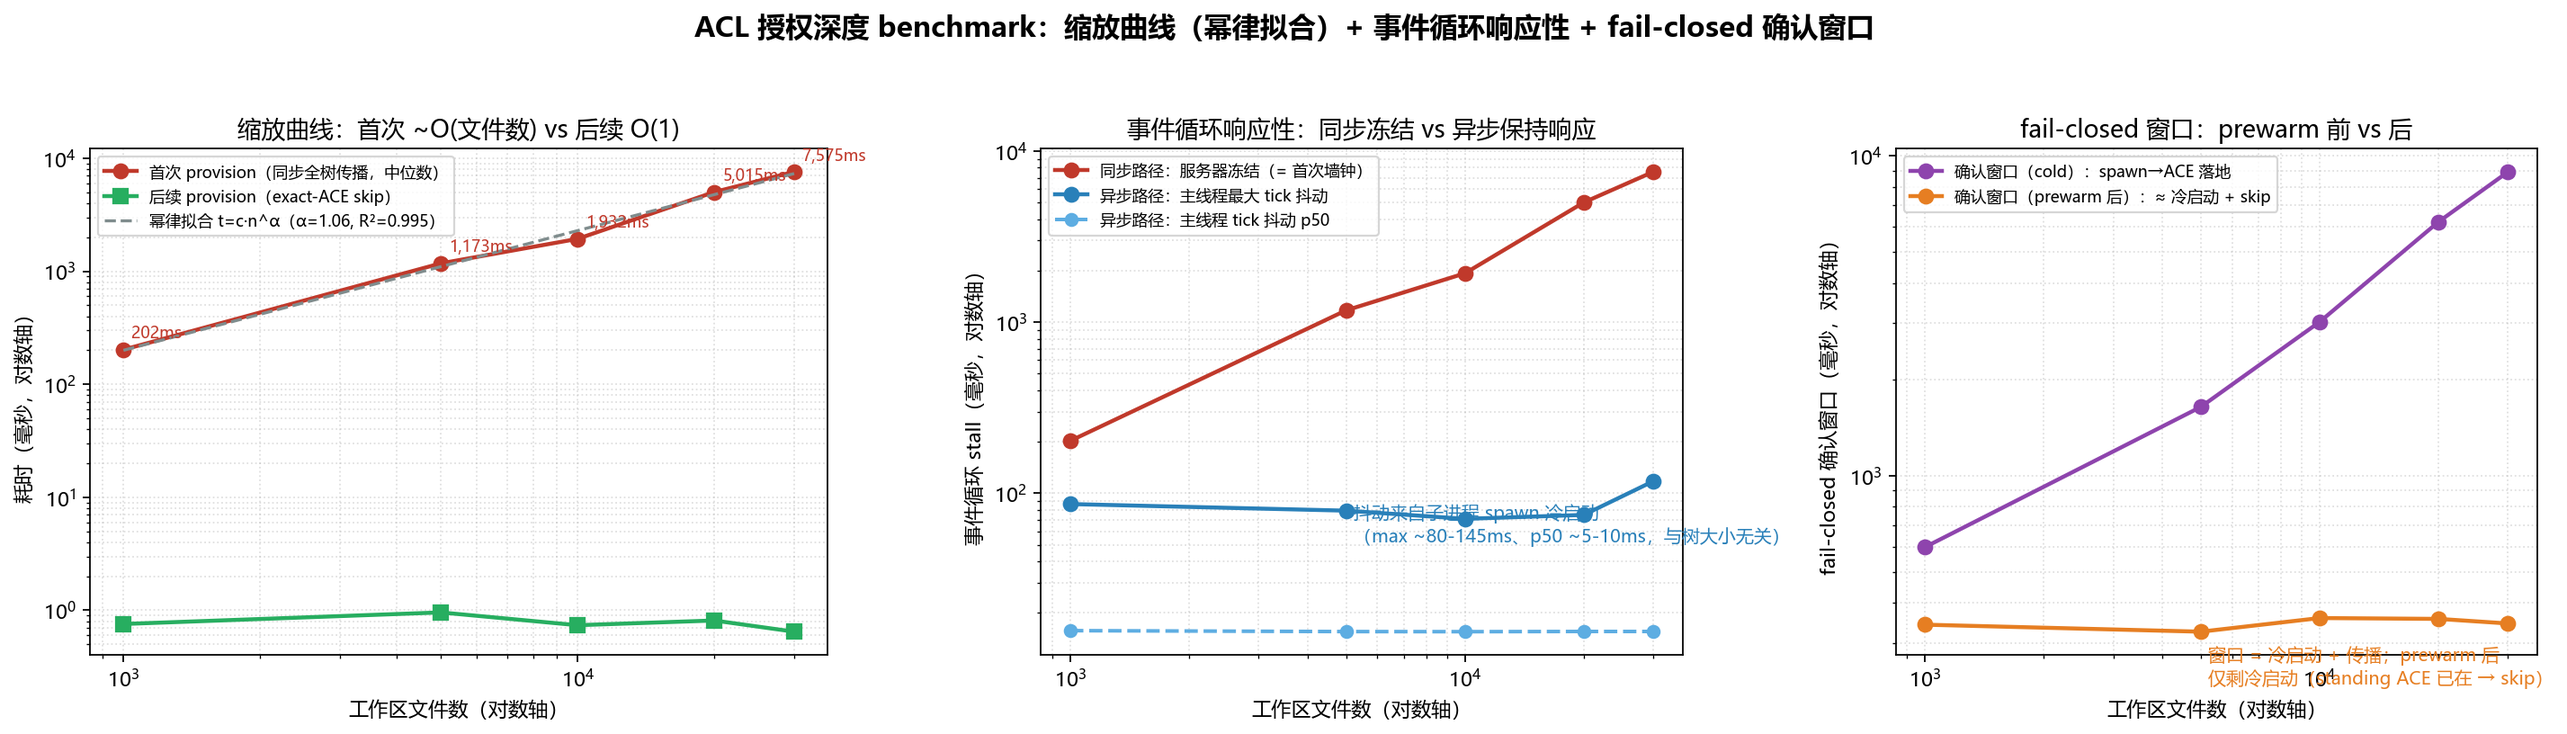
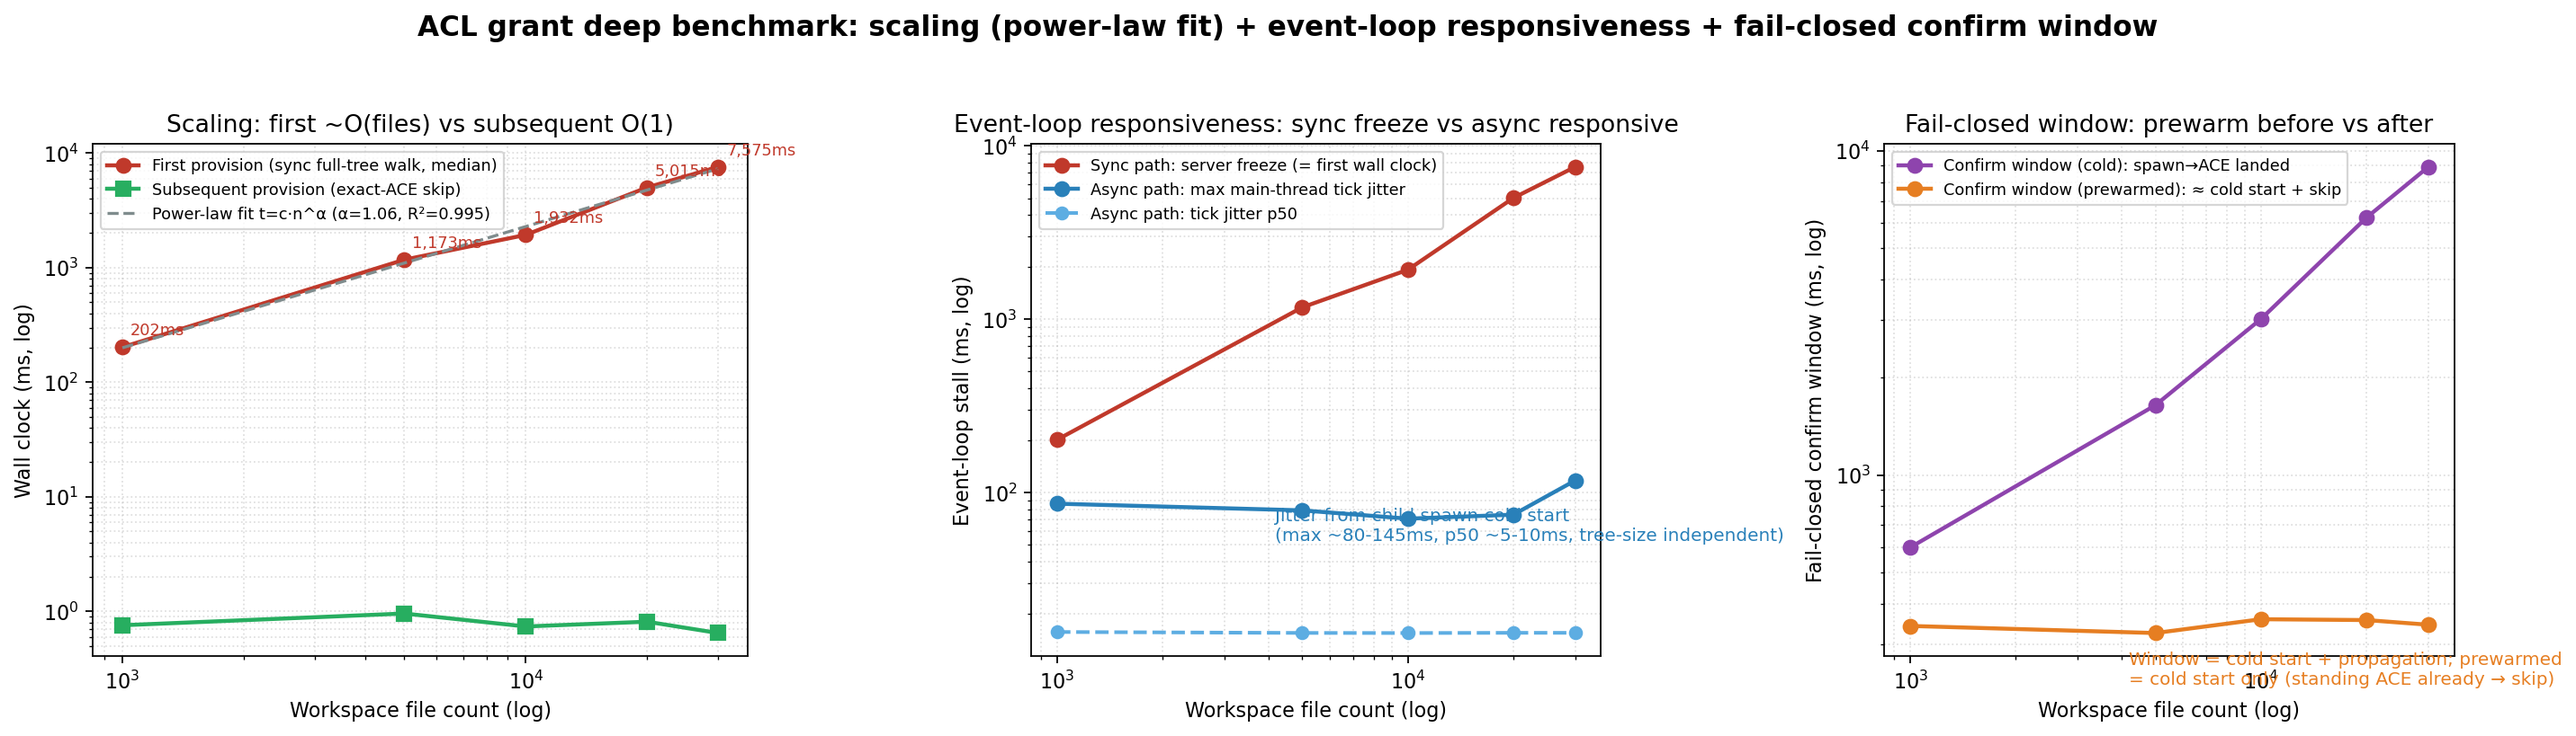
docs(benchmark): localize figures to English for public release

diff --git a/scripts/plot-benchmark-deep.py b/scripts/plot-benchmark-deep.py
@@ -25,15 +25,9 @@ import matplotlib
 
 matplotlib.use("Agg")
 import matplotlib.pyplot as plt
-import matplotlib.font_manager as fm
 
-ZH_FONT = None
-for name in ("Microsoft YaHei", "SimHei", "PingFang SC"):
-    if any(f.name == name for f in fm.fontManager.ttflist):
-        ZH_FONT = name
-        break
-
-plt.rcParams["font.family"] = ZH_FONT or "sans-serif"
+# English-only figure: use the default sans-serif (no Chinese font needed).
+plt.rcParams["font.family"] = "sans-serif"
 plt.rcParams["axes.unicode_minus"] = False
 
 HERE = os.path.dirname(os.path.abspath(__file__))
@@ -52,7 +46,7 @@ r_sq = fit.get("rSquared")
 
 fig, axes = plt.subplots(1, 3, figsize=(18, 5.2), gridspec_kw={"width_ratios": [1.15, 1, 1]})
 fig.suptitle(
-    "ACL 授权深度 benchmark：缩放曲线（幂律拟合）+ 事件循环响应性 + fail-closed 确认窗口",
+    "ACL grant deep benchmark: scaling (power-law fit) + event-loop responsiveness + fail-closed confirm window",
     fontsize=14,
     fontweight="bold",
     y=0.98,
@@ -64,9 +58,9 @@ s_files = [r["actualFiles"] for r in synth]
 s_first = [r["sync"]["first"]["median"] for r in synth]
 s_sub = [r["sync"]["subsequent"]["median"] for r in synth]
 ax.plot(s_files, s_first, "o-", color="#c0392b", linewidth=2, markersize=7,
-        label="首次 provision（同步全树传播，中位数）")
+        label="First provision (sync full-tree walk, median)")
 ax.plot(s_files, s_sub, "s-", color="#27ae60", linewidth=2, markersize=7,
-        label="后续 provision（exact-ACE skip）")
+        label="Subsequent provision (exact-ACE skip)")
 # power-law fit line over the observed range
 if alpha is not None and r_sq is not None and len(s_files) >= 2:
     import math
@@ -74,20 +68,20 @@ if alpha is not None and r_sq is not None and len(s_files) >= 2:
     xs = [min(s_files), max(s_files)]
     ys = [math.exp(fit["intercept"]) * x ** alpha for x in xs]
     ax.plot(xs, ys, "--", color="#7f8c8d", linewidth=1.5,
-            label=f"幂律拟合 t=c·n^α（α={alpha:.2f}, R²={r_sq:.3f}）")
+            label=f"Power-law fit t=c·n^α (α={alpha:.2f}, R²={r_sq:.3f})")
 # real-directory data (hollow marker, excluded from fit)
 for r in real:
     ax.plot(r["actualFiles"], r["sync"]["first"]["median"], "D",
             markerfacecolor="none", markeredgecolor="#c0392b", markersize=9,
-            label=os.path.basename(r["realPath"]) if r.get("realPath") else "真实目录")
+            label=os.path.basename(r["realPath"]) if r.get("realPath") else "real dir")
     ax.annotate(f'{os.path.basename(r["realPath"])}\n{r["sync"]["first"]["median"]:.0f}ms',
                 (r["actualFiles"], r["sync"]["first"]["median"]),
                 textcoords="offset points", xytext=(6, 6), fontsize=8, color="#c0392b")
 ax.set_xscale("log")
 ax.set_yscale("log")
-ax.set_xlabel("工作区文件数（对数轴）")
-ax.set_ylabel("耗时（毫秒，对数轴）")
-ax.set_title("缩放曲线：首次 ~O(文件数) vs 后续 O(1)", fontsize=12)
+ax.set_xlabel("Workspace file count (log)")
+ax.set_ylabel("Wall clock (ms, log)")
+ax.set_title("Scaling: first ~O(files) vs subsequent O(1)", fontsize=12)
 ax.grid(True, which="both", linestyle=":", alpha=0.4)
 ax.legend(fontsize=8, loc="upper left")
 for x, y in zip(s_files, s_first):
@@ -99,19 +93,19 @@ ax = axes[1]
 s_stall_max = [r["async"]["stall"]["max"] for r in synth]
 s_stall_p50 = [r["async"]["stall"]["p50"] for r in synth]
 ax.plot(s_files, s_first, "o-", color="#c0392b", linewidth=2, markersize=7,
-        label="同步路径：服务器冻结（= 首次墙钟）")
+        label="Sync path: server freeze (= first wall clock)")
 ax.plot(s_files, s_stall_max, "o-", color="#2980b9", linewidth=2, markersize=7,
-        label="异步路径：主线程最大 tick 抖动")
+        label="Async path: max main-thread tick jitter")
 ax.plot(s_files, s_stall_p50, "o--", color="#5dade2", linewidth=1.8, markersize=6,
-        label="异步路径：主线程 tick 抖动 p50")
+        label="Async path: tick jitter p50")
 ax.set_xscale("log")
 ax.set_yscale("log")
-ax.set_xlabel("工作区文件数（对数轴）")
-ax.set_ylabel("事件循环 stall（毫秒，对数轴）")
-ax.set_title("事件循环响应性：同步冻结 vs 异步保持响应", fontsize=12)
+ax.set_xlabel("Workspace file count (log)")
+ax.set_ylabel("Event-loop stall (ms, log)")
+ax.set_title("Event-loop responsiveness: sync freeze vs async responsive", fontsize=12)
 ax.grid(True, which="both", linestyle=":", alpha=0.4)
 ax.legend(fontsize=8, loc="upper left")
-ax.annotate("抖动来自子进程 spawn 冷启动\n（max ~80-145ms、p50 ~5-10ms，与树大小无关）",
+ax.annotate("Jitter from child spawn cold start\n(max ~80-145ms, p50 ~5-10ms, tree-size independent)",
             (s_files[-1], s_stall_max[-1]), textcoords="offset points",
             xytext=(-150, -30), fontsize=9, color="#2980b9")
 
@@ -120,20 +114,20 @@ ax = axes[2]
 s_confirm = [r["async"]["confirmMs"] for r in synth]
 s_prewarm = [r["async"]["confirmPrewarmedMs"] for r in synth]
 ax.plot(s_files, s_confirm, "o-", color="#8e44ad", linewidth=2, markersize=7,
-        label="确认窗口（cold）：spawn→ACE 落地")
+        label="Confirm window (cold): spawn→ACE landed")
 ax.plot(s_files, s_prewarm, "o-", color="#e67e22", linewidth=2, markersize=7,
-        label="确认窗口（prewarm 后）：≈ 冷启动 + skip")
+        label="Confirm window (prewarmed): ≈ cold start + skip")
 for r in real:
     ax.plot(r["actualFiles"], r["async"]["confirmPrewarmedMs"], "D",
             markerfacecolor="none", markeredgecolor="#e67e22", markersize=9)
 ax.set_xscale("log")
 ax.set_yscale("log")
-ax.set_xlabel("工作区文件数（对数轴）")
-ax.set_ylabel("fail-closed 确认窗口（毫秒，对数轴）")
-ax.set_title("fail-closed 窗口：prewarm 前 vs 后", fontsize=12)
+ax.set_xlabel("Workspace file count (log)")
+ax.set_ylabel("Fail-closed confirm window (ms, log)")
+ax.set_title("Fail-closed window: prewarm before vs after", fontsize=12)
 ax.grid(True, which="both", linestyle=":", alpha=0.4)
 ax.legend(fontsize=8, loc="upper left")
-ax.annotate("窗口 = 冷启动 + 传播；prewarm 后\n仅剩冷启动（standing ACE 已在 → skip）",
+ax.annotate("Window = cold start + propagation; prewarmed\n= cold start only (standing ACE already → skip)",
             (s_files[-1], s_prewarm[-1]), textcoords="offset points",
             xytext=(-150, -30), fontsize=9, color="#e67e22")
 

diff --git a/scripts/plot-benchmark.py b/scripts/plot-benchmark.py
@@ -12,18 +12,9 @@ import matplotlib
 
 matplotlib.use("Agg")
 import matplotlib.pyplot as plt
-import matplotlib.ticker as mticker
 
-# Try Chinese font (Microsoft YaHei ships with Windows); fall back to default.
-import matplotlib.font_manager as fm
-
-ZH_FONT = None
-for name in ("Microsoft YaHei", "SimHei", "PingFang SC"):
-    if any(f.name == name for f in fm.fontManager.ttflist):
-        ZH_FONT = name
-        break
-
-plt.rcParams["font.family"] = ZH_FONT or "sans-serif"
+# English-only figure: use the default sans-serif (no Chinese font needed).
+plt.rcParams["font.family"] = "sans-serif"
 plt.rcParams["axes.unicode_minus"] = False
 
 # --- real measured data -----------------------------------------------------
@@ -41,33 +32,34 @@ DIRS = [
 ]
 
 fig, axes = plt.subplots(1, 2, figsize=(12, 4.6), gridspec_kw={"width_ratios": [1.15, 1]})
-fig.suptitle("ACL 授权耗时对比（实测，劫持官方 grant.ts 源码）", fontsize=14, fontweight="bold", y=0.98)
+fig.suptitle("ACL grant wall clock, measured (hijacking official grant.ts sources)",
+             fontsize=14, fontweight="bold", y=0.98)
 
 # --- left: same directory, first vs second (log scale) ----------------------
 ax = axes[0]
-labels = ["首次 provision\n（同步全树传播）", "二次 provision\n（O(1) skip）"]
+labels = ["First provision\n(sync full-tree walk)", "Second provision\n(O(1) skip)"]
 values = [2773.7, 1.2]
 colors = ["#c0392b", "#27ae60"]
 bars = ax.bar(labels, values, color=colors, width=0.55)
 ax.set_yscale("log")
 ax.set_ylim(0.1, 10000)
-ax.set_ylabel("耗时（毫秒，对数轴）")
-ax.set_title("同一目录：首次 vs 二次", fontsize=12)
+ax.set_ylabel("Wall clock (ms, log scale)")
+ax.set_title("Same directory: first vs second", fontsize=12)
 for bar, v in zip(bars, values):
     ax.text(bar.get_x() + bar.get_width() / 2, v * 1.4, f"{v:,.1f} ms",
             ha="center", va="bottom", fontsize=11, fontweight="bold")
-ax.text(0.5, 0.05, "≈2,300 倍差距\n（用户可感知的整服务器冻结）",
+ax.text(0.5, 0.05, "≈2,300x gap\n(whole-server freeze a user feels)",
         transform=ax.transAxes, ha="center", fontsize=9, color="#555555")
 
 # --- right: skip is flat regardless of tree size ----------------------------
 ax = axes[1]
-ax.bar(["4,332 文件", "182,053 文件"], [1.2, 1.2], color="#27ae60", width=0.5)
+ax.bar(["4,332 files", "182,053 files"], [1.2, 1.2], color="#27ae60", width=0.5)
 ax.set_ylim(0, 2.0)
-ax.set_ylabel("耗时（毫秒）")
-ax.set_title("二次 provision（exact-ACE skip）", fontsize=12)
+ax.set_ylabel("Wall clock (ms)")
+ax.set_title("Subsequent provision (exact-ACE skip)", fontsize=12)
 for i, v in enumerate([1.2, 1.2]):
     ax.text(i, v + 0.08, f"{v} ms", ha="center", va="bottom", fontsize=11, fontweight="bold")
-ax.text(0.5, 0.9, "与树大小无关：\nhasExactGrant 只读目录自身 DACL 头",
+ax.text(0.5, 0.9, "Tree-size independent:\nhasExactGrant reads only the directory's own DACL header",
         transform=ax.transAxes, ha="center", fontsize=9, color="#555555")
 
 fig.tight_layout(rect=[0, 0, 1, 0.94])
